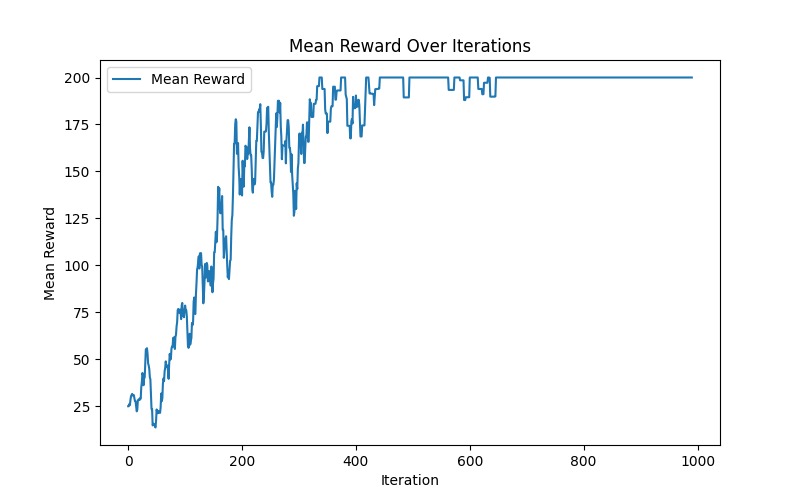
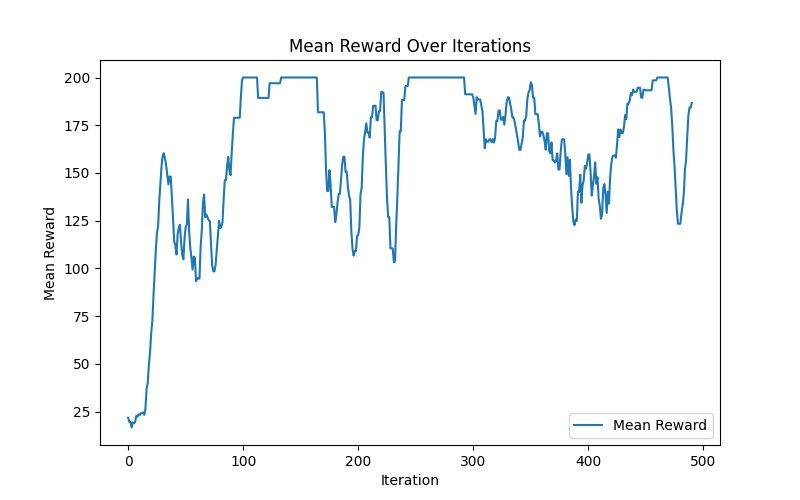
changed plotting from mean to max and plotted for g=10 and g=5 issue: potentially more hyperparameter tuning

diff --git a/grpo.py b/grpo.py
@@ -45,7 +45,7 @@ class Args:
     # Algorithm specific arguments
     env_id: str = "CartPole-v1"
     """the id of the environment"""
-    total_timesteps: int = 1000000
+    total_timesteps: int = 100000
     """total timesteps of the experiments"""
     # best so far 2.5e-2
     learning_rate: float = 2.5e-2
@@ -133,6 +133,7 @@ class Agent(nn.Module):
 if __name__ == "__main__":
     args = tyro.cli(Args)
     # args.batch_size = int(args.num_envs * args.num_steps)
+    args.total_timesteps = args.total_timesteps * args.num_groups
     args.batch_size = int(args.num_groups * args.num_steps)
     args.minibatch_size = int(args.batch_size // args.num_minibatches)
     args.num_iterations = args.total_timesteps // args.batch_size
